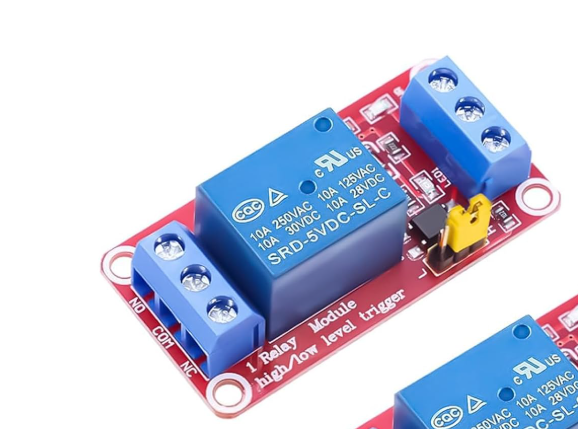
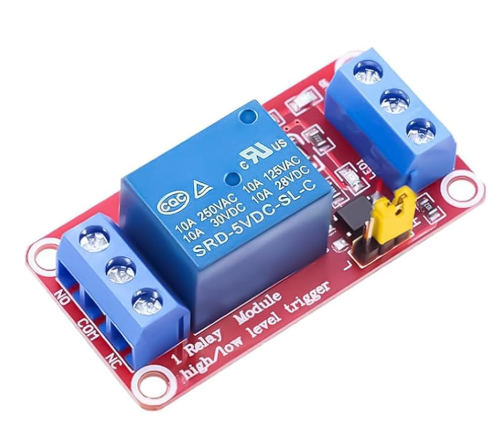
png

diff --git a/morse_sim.cpp b/morse_sim.cpp
@@ -213,6 +213,7 @@ void loop() {
         std::cin >> input;
         processInput(input);
     }
+    usleep(100000);
 }
 
 int main() {
@@ -225,13 +226,9 @@ int main() {
 
     setup();
 
-    char continuar = 's';
-    while (continuar != 'n' && continuar != 'N') {
+    while (true) {
         loop();
-        std::cout << "\n¿Continuar? (s/n): " << std::flush;
-        std::cin >> continuar;
     }
 
-    std::cout << "Simulacion terminada." << std::endl;
     return 0;
 }